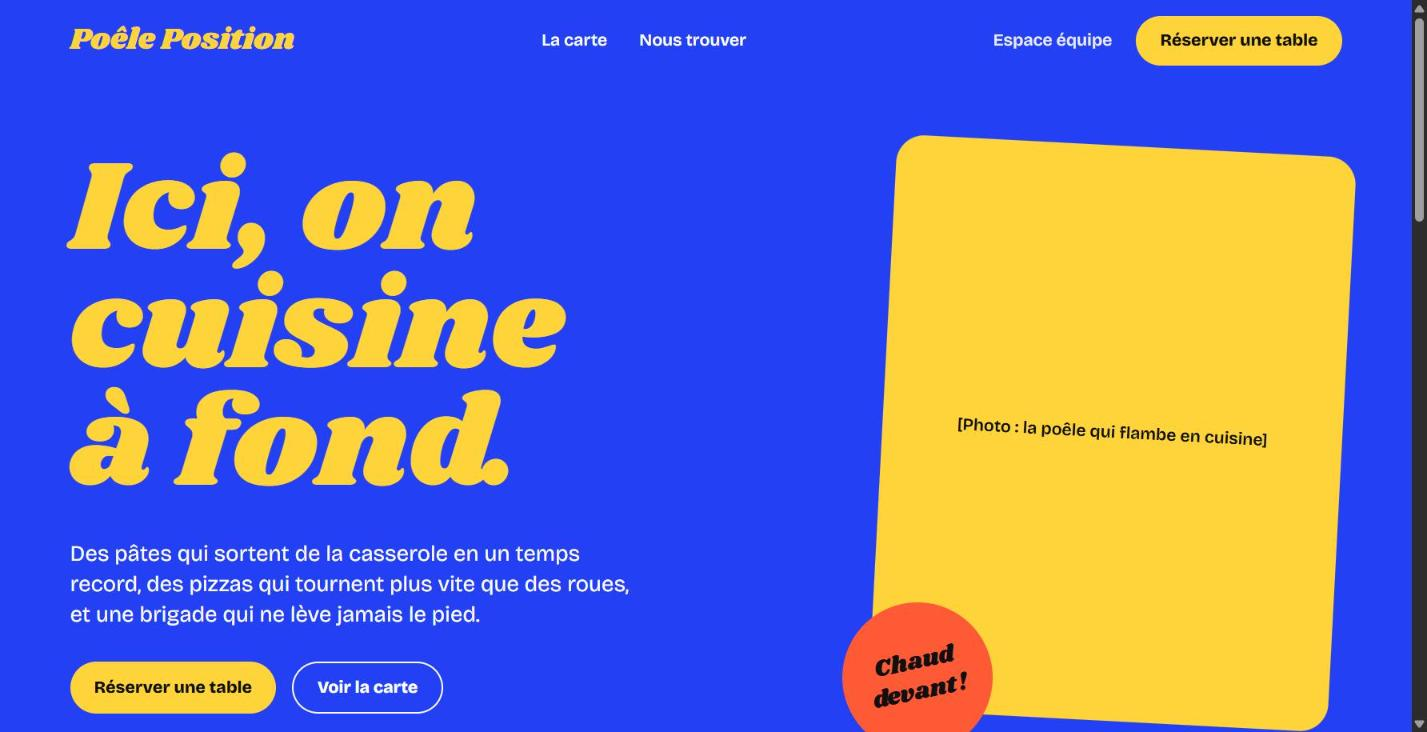
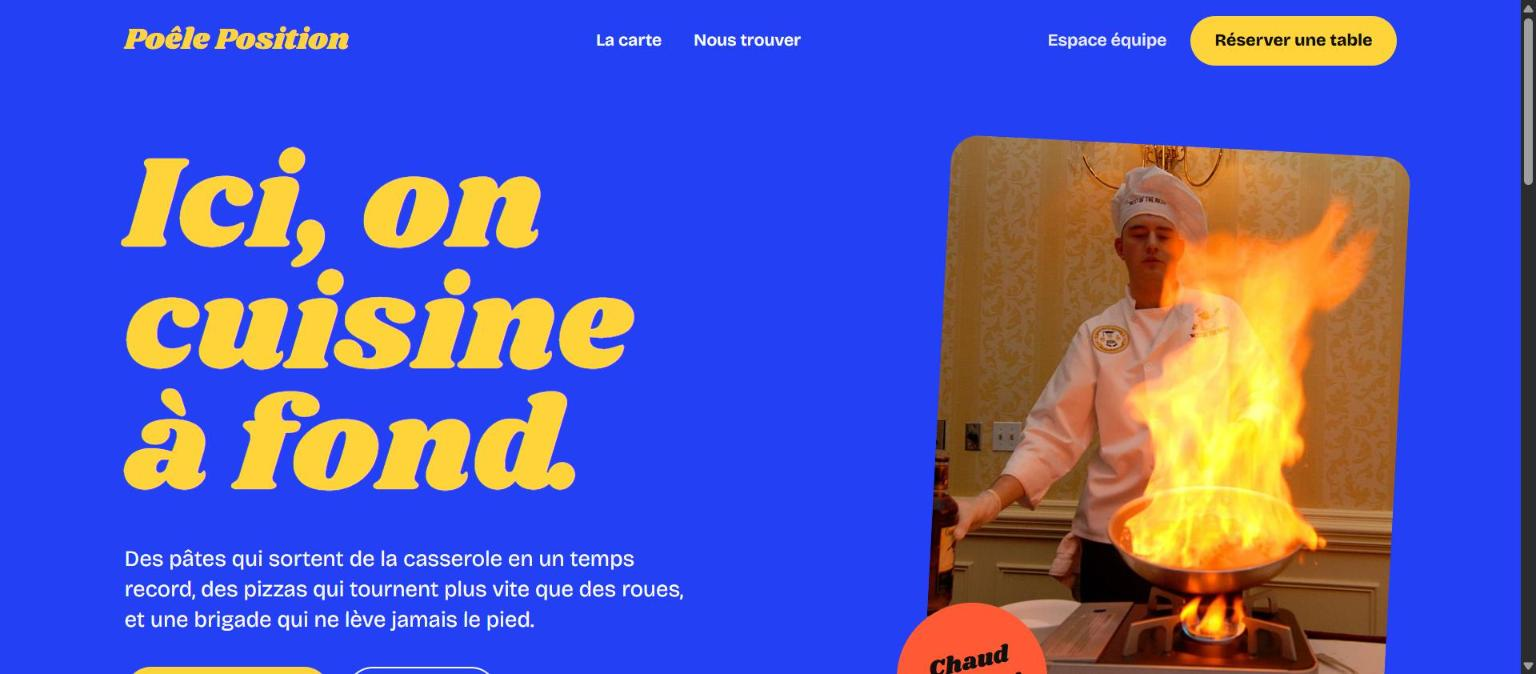
feat: vraies photos des plats et du site (Wikimedia Commons, licences libres)

diff --git a/apps/web/src/routes/landing-page.tsx b/apps/web/src/routes/landing-page.tsx
@@ -3,7 +3,8 @@ import { Link } from 'react-router'
 import { useDocumentTitle } from '@/lib/use-document-title'
 
 // Landing publique du restaurant (handoff § 5). Dans le chunk d'entrée : aucune dépendance
-// à l'API, à l'auth ni à Three.js. Les textes entre crochets sont des emplacements à remplir.
+// à l'API, à l'auth ni à Three.js. Les textes entre crochets sont des emplacements à remplir ;
+// les photos sont sous licence libre (cf. docs/CREDITS-PHOTOS.md).
 
 // Jointure de classes locale : importer lib/utils (paquet cn) ici le partagerait avec les chunks lazy
 // et ajouterait un second fichier JS au chargement de la landing.
@@ -24,20 +25,47 @@ const DISHES = [
   {
     name: 'La Carbo Turbo',
     description: 'Guanciale croustillant, jaune d’œuf, pecorino. Zéro crème, zéro compromis.',
-    photo: '[Photo : la Carbo Turbo]',
+    image: '/landing/carbo-turbo.jpg',
+    alt: 'Assiette de spaghetti carbonara au guanciale, parsemée de fromage râpé',
     tint: 'bg-[#ffe58a]',
   },
   {
     name: 'Pizza Pit-Stop',
     description: 'Tomate, mozzarella, basilic. Quatre-vingt-dix secondes au four, montre en main.',
-    photo: '[Photo : la Pizza Pit-Stop]',
+    image: '/landing/pizza-pit-stop.jpg',
+    alt: 'Pizza margherita à pâte gonflée, mozzarella et feuilles de basilic',
     tint: 'bg-[#ffcfc2]',
   },
   {
     name: 'Tiramisu Tour d’honneur',
     description: 'Le dessert qu’on mérite après avoir tout fini. Servi à la cuillère, généreusement.',
-    photo: '[Photo : le Tiramisu Tour d’honneur]',
+    image: '/landing/tiramisu-tour-honneur.jpg',
+    alt: 'Part de tiramisu en couches, saupoudrée de cacao et décorée de chocolat',
     tint: 'bg-[#d3d9ff]',
+  },
+]
+
+// Attribution des photos du site (licences CC BY et domaine public).
+const PHOTO_CREDITS = [
+  {
+    label: 'Chef flambant une poêle, U.S. Navy',
+    license: 'domaine public',
+    href: 'https://commons.wikimedia.org/wiki/File:Flickr_-_Official_U.S._Navy_Imagery_-_Navy_chef_takes_part_in_culinary_competition..jpg',
+  },
+  {
+    label: 'Carbonara, jeffreyw',
+    license: 'CC BY 2.0',
+    href: 'https://commons.wikimedia.org/wiki/File:Spaghetti_Carbonara_2015.jpg',
+  },
+  {
+    label: 'Pizza margherita, ノボホショコロトソ',
+    license: 'CC BY 4.0',
+    href: 'https://commons.wikimedia.org/wiki/File:Pizza_Margherita_%E3%83%94%E3%82%B6%E3%83%BB%E3%83%9E%E3%83%AB%E3%82%B2%E3%83%AA%E3%83%BC%E3%82%BF.jpg',
+  },
+  {
+    label: 'Tiramisu, Sarah Stierch',
+    license: 'CC BY 4.0',
+    href: 'https://commons.wikimedia.org/wiki/File:Tiramisu_-_Bistro_Don_Giovanni_-_Sarah_Stierch_2018_02.jpg',
   },
 ]
 
@@ -189,8 +217,17 @@ function Hero() {
         </div>
 
         <div className="relative mx-auto w-full max-w-[460px] lg:mr-0">
-          <div className="bg-brand-yellow text-brand-ink flex aspect-[4/5] rotate-3 items-center justify-center rounded-[28px] p-8 text-center text-[17px] font-semibold">
-            [Photo : la poêle qui flambe en cuisine]
+          <div className="bg-brand-yellow aspect-[4/5] rotate-3 overflow-hidden rounded-[28px]">
+            {/* Image principale du héros : chargée en priorité (au-dessus de la ligne de flottaison). */}
+            <img
+              src="/landing/heros-poele-flambee.jpg"
+              alt="Un chef en toque fait flamber une poêle, les flammes montent bien au-dessus du feu"
+              width={960}
+              height={1200}
+              fetchPriority="high"
+              decoding="async"
+              className="size-full object-cover"
+            />
           </div>
           <p className="font-display bg-brand-orange text-brand-ink absolute -bottom-8 -left-2 flex size-[150px] -rotate-12 items-center justify-center rounded-full p-4 text-center text-[24px] leading-tight sm:-left-10">
             Chaud devant{' '}!
@@ -221,13 +258,17 @@ function Menu() {
           {DISHES.map((dish) => (
             <li key={dish.name}>
               <article className="flex flex-col gap-4">
-                <div
-                  className={cn(
-                    'text-brand-ink flex aspect-square items-center justify-center rounded-[24px] p-6 text-center text-[17px] font-semibold',
-                    dish.tint,
-                  )}
-                >
-                  {dish.photo}
+                {/* Fond pastel visible le temps du chargement de la photo. */}
+                <div className={cn('aspect-square overflow-hidden rounded-[24px]', dish.tint)}>
+                  <img
+                    src={dish.image}
+                    alt={dish.alt}
+                    width={900}
+                    height={900}
+                    loading="lazy"
+                    decoding="async"
+                    className="size-full object-cover"
+                  />
                 </div>
                 <div className="flex items-baseline justify-between gap-4">
                   <h3 className="text-brand-ink text-[30px] leading-tight font-extrabold">{dish.name}</h3>
@@ -281,7 +322,7 @@ function SiteFooter() {
 
   return (
     <footer className="bg-brand-ink text-white">
-      <div className={cn(CONTAINER, 'flex flex-col gap-8 py-14 md:flex-row md:items-center md:justify-between')}>
+      <div className={cn(CONTAINER, 'flex flex-col gap-8 pt-14 pb-8 md:flex-row md:items-center md:justify-between')}>
         <p className="font-display text-brand-yellow text-[40px] leading-none">Poêle Position</p>
         <nav aria-label="Pied de page" className="flex flex-wrap gap-x-8 gap-y-1">
           <a href="#carte" className={footerLink}>
@@ -294,6 +335,28 @@ function SiteFooter() {
             Espace équipe
           </Link>
         </nav>
+      </div>
+      {/* Crédits des photos (licences libres, cf. docs/CREDITS-PHOTOS.md). */}
+      <div className={cn(CONTAINER, 'border-t border-white/15 py-6')}>
+        <p className="text-[14px] leading-relaxed text-white/75">
+          Photos : Wikimedia Commons.{' '}
+          {PHOTO_CREDITS.map((credit, index) => (
+            <span key={credit.href}>
+              {index > 0 && ' · '}
+              <a
+                href={credit.href}
+                className={cn(
+                  'rounded-sm underline underline-offset-2 hover:text-white',
+                  'focus-visible:outline-2',
+                  FOCUS_ON_INK,
+                )}
+              >
+                {credit.label}
+              </a>{' '}
+              ({credit.license})
+            </span>
+          ))}
+        </p>
       </div>
     </footer>
   )

diff --git a/apps/api/prisma/seed.ts b/apps/api/prisma/seed.ts
@@ -18,14 +18,14 @@ const DEMO_USERS = [
 // Carte de démo. Les images sont des illustrations servies par le front
 // (apps/web/public/dishes) : elles peuvent être remplacées par de vraies photos.
 const DEMO_DISHES = [
-  { name: 'Burger maison', price: 14.5, imageUrl: '/dishes/burger.svg' },
-  { name: 'Pizza Margherita', price: 12, imageUrl: '/dishes/pizza.svg' },
-  { name: 'Salade César', price: 11, imageUrl: '/dishes/salade-cesar.svg' },
-  { name: 'Ramen', price: 13.5, imageUrl: '/dishes/ramen.svg' },
-  { name: 'Steak frites', price: 18, imageUrl: '/dishes/steak-frites.svg' },
-  { name: 'Risotto aux champignons', price: 16, imageUrl: '/dishes/risotto.svg' },
-  { name: 'Tiramisu', price: 7, imageUrl: '/dishes/tiramisu.svg' },
-  { name: 'Limonade maison', price: 4.5, imageUrl: '/dishes/limonade.svg' },
+  { name: 'Burger maison', price: 14.5, imageUrl: '/dishes/burger.jpg' },
+  { name: 'Pizza Margherita', price: 12, imageUrl: '/dishes/pizza.jpg' },
+  { name: 'Salade César', price: 11, imageUrl: '/dishes/salade-cesar.jpg' },
+  { name: 'Ramen', price: 13.5, imageUrl: '/dishes/ramen.jpg' },
+  { name: 'Steak frites', price: 18, imageUrl: '/dishes/steak-frites.jpg' },
+  { name: 'Risotto aux champignons', price: 16, imageUrl: '/dishes/risotto.jpg' },
+  { name: 'Tiramisu', price: 7, imageUrl: '/dishes/tiramisu.jpg' },
+  { name: 'Limonade maison', price: 4.5, imageUrl: '/dishes/limonade.jpg' },
 ];
 
 // Plan de salle de démo (positions en mètres, cf. shared/src/floor.ts) : trois

diff --git a/docs/CREDITS-PHOTOS.md b/docs/CREDITS-PHOTOS.md
@@ -1,0 +1,31 @@
+# Crédits des photos
+
+Toutes les photos viennent de [Wikimedia Commons](https://commons.wikimedia.org)
+et sont sous licence libre. Elles ont été recadrées et redimensionnées pour
+l'application ; les photos sous licence CC BY-SA restent, dans leur version
+modifiée, sous la même licence.
+
+## Carte du restaurant (`apps/web/public/dishes/`)
+
+| Fichier | Photo d'origine | Auteur | Licence |
+|---|---|---|---|
+| `burger.jpg` | [Hamburger - 1](https://commons.wikimedia.org/wiki/File:Hamburger_-_1.jpg) | Helen Penjam | [CC BY 2.0](https://creativecommons.org/licenses/by/2.0) |
+| `pizza.jpg` | [Pizza-napoletana](https://commons.wikimedia.org/wiki/File:Pizza-napoletana.jpg) | Fabryx98 | [CC BY-SA 4.0](https://creativecommons.org/licenses/by-sa/4.0) |
+| `salade-cesar.jpg` | [Caesar Salad from Tony Roma Restaurant](https://commons.wikimedia.org/wiki/File:Caesar_Salad_from_Tony_Roma_Restaurant-_March_2024_02.jpg) | Banej | [CC BY-SA 4.0](https://creativecommons.org/licenses/by-sa/4.0) |
+| `ramen.jpg` | [Soy Milk Ramen and Tonkotsu Miso Ramen](https://commons.wikimedia.org/wiki/File:Soy_Milk_Ramen_and_Tonkotsu_Miso_Ramen_by_Goemon_Ramen_Bar.jpg) | Andy Li | [CC0](https://creativecommons.org/publicdomain/zero/1.0/) |
+| `steak-frites.jpg` | [Steak frites - San Francisco, CA](https://commons.wikimedia.org/wiki/File:Steak_frites_-_San_Francisco,_CA.jpg) | Daderot | [CC0](https://creativecommons.org/publicdomain/zero/1.0/) |
+| `risotto.jpg` | [Mushroom and Leek Risotto](https://commons.wikimedia.org/wiki/File:Mushroom_and_Leek_Risotto_(49535206656).jpg) | spurekar | [CC BY 2.0](https://creativecommons.org/licenses/by/2.0) |
+| `tiramisu.jpg` | [Tiramisu at Italian restaurant in Japan](https://commons.wikimedia.org/wiki/File:Tiramisu_at_Italian_restaurant_in_Japan.jpg) | Syced | [CC0](https://creativecommons.org/publicdomain/zero/1.0/) |
+| `limonade.jpg` | [Ice Lemon](https://commons.wikimedia.org/wiki/File:Ice_Lemon_(48063167602).jpg) | Theo Crazzolara | [CC BY 2.0](https://creativecommons.org/licenses/by/2.0) |
+
+## Site du restaurant (`apps/web/public/landing/`)
+
+| Fichier | Photo d'origine | Auteur | Licence |
+|---|---|---|---|
+| `heros-poele-flambee.jpg` | [Navy chef takes part in culinary competition](https://commons.wikimedia.org/wiki/File:Flickr_-_Official_U.S._Navy_Imagery_-_Navy_chef_takes_part_in_culinary_competition..jpg) | Todd A. Schaffer, U.S. Navy | Domaine public (œuvre du gouvernement fédéral américain) |
+| `carbo-turbo.jpg` | [Spaghetti Carbonara 2015](https://commons.wikimedia.org/wiki/File:Spaghetti_Carbonara_2015.jpg) | jeffreyw | [CC BY 2.0](https://creativecommons.org/licenses/by/2.0) |
+| `pizza-pit-stop.jpg` | [Pizza Margherita](https://commons.wikimedia.org/wiki/File:Pizza_Margherita_%E3%83%94%E3%82%B6%E3%83%BB%E3%83%9E%E3%83%AB%E3%82%B2%E3%83%AA%E3%83%BC%E3%82%BF.jpg) | ノボホショコロトソ | [CC BY 4.0](https://creativecommons.org/licenses/by/4.0) |
+| `tiramisu-tour-honneur.jpg` | [Tiramisu - Bistro Don Giovanni](https://commons.wikimedia.org/wiki/File:Tiramisu_-_Bistro_Don_Giovanni_-_Sarah_Stierch_2018_02.jpg) | Sarah Stierch (Missvain) | [CC BY 4.0](https://creativecommons.org/licenses/by/4.0) |
+
+Les photos illustrent des plats de démonstration : elles ne représentent pas
+les plats réels d'un restaurant « Poêle Position ».

diff --git a/README.md b/README.md
@@ -575,6 +575,10 @@ Les tests de l'API peuvent aussi être lancés dans le conteneur :
 
 ## Crédits
 
+- Photos des plats et du site : [Wikimedia Commons](https://commons.wikimedia.org),
+  sous licences libres (CC0, domaine public, CC BY, CC BY-SA). Auteurs, licences
+  et sources sont listés dans [`docs/CREDITS-PHOTOS.md`](docs/CREDITS-PHOTOS.md),
+  et les crédits du site figurent en pied de page de la landing.
 - Mobilier 3D : [Furniture Kit de Kenney](https://kenney.nl/assets/furniture-kit),
   licence CC0 (`apps/web/public/models/kenney-furniture/License.txt`).
 - Polices : Shrikhand et Bricolage Grotesque, licence SIL Open Font License,
